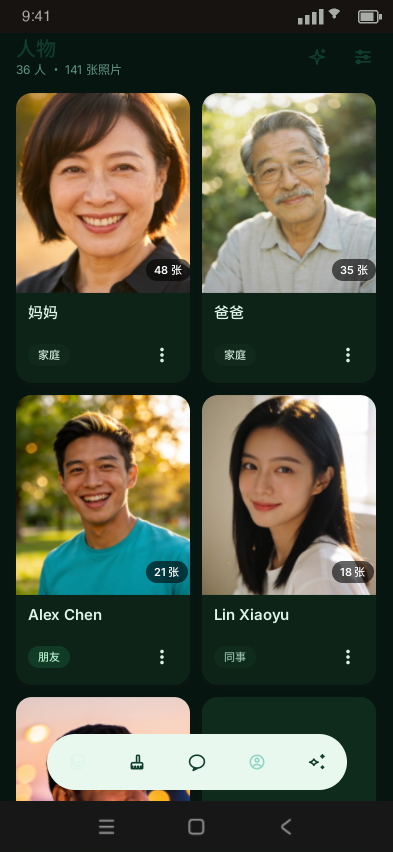
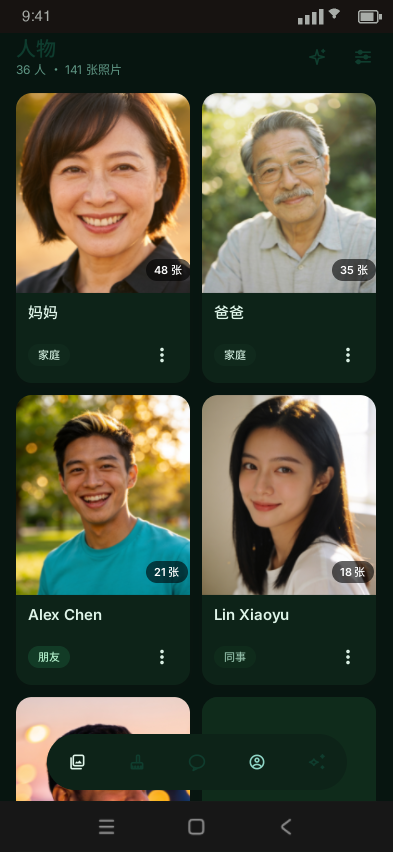
fix(design): 悬浮导航跟随主题——3 处字面量残留回填 token + 审计补悬浮导航带
grid-store01 / grid-store01-zhTW / people/grid-store01 三帧的 floating_tab
实例仍持 Light 实验期浅色字面量（上轮只修了 search/store01 一处），
悬浮导航落在内容带(38-70)与虚拟键带(801-852)之间的采样盲区未被发现。

- 三实例 fills 回填母版 token $2:156，渲染验证三帧悬浮导航=DARK ✓
- 审计工具新增 floating_tab 实例收集 + 专属采样带（300x56@(46,734)）
  + --fix 字面量自动回填路径；实例覆盖 69→82
- 全画布审计通过（2 个照片 hero 页 MID 为已豁免假阳性）；快照入库

Changed region(s): [[0.1221, 0.8545, 0.8855, 0.946]]

diff --git a/scripts/ardot-chrome-audit.py b/scripts/ardot-chrome-audit.py
@@ -113,7 +113,7 @@ def collect_instances(cv):
                     continue
                 for c in fr.get("children") or []:
                     if c.get("type") == "INSTANCE" and c.get("name") in (
-                            "status_bar", "system_nav_bar"):
+                            "status_bar", "system_nav_bar", "floating_tab"):
                         out.append({"page": pid, "frame": fr["id"],
                                     "frameName": fr.get("name"),
                                     "inst": c["id"], "kind": c.get("name")})
@@ -134,6 +134,8 @@ def classify(png_path, kind):
         box = (0, 0, w, int(33 * h / 852))
     elif kind == "system_nav_bar":
         box = (0, int(801 * h / 852), w, h)
+    elif kind == "floating_tab":   # 300x56 @ (46,734)
+        box = (int(0.13 * w), int(0.868 * h), int(0.86 * w), int(0.922 * h))
     else:  # content
         box = (0, int(38 * h / 852), w, int(70 * h / 852))
     v = float(np.asarray(im.crop(box), dtype=float).mean())
@@ -186,6 +188,10 @@ def audit(cv, fix=False):
                 mode_id = "2:0" if expect == "DARK" else "79:1"
                 ops.append(f'U("{fid}", {{variableModes: [{{variableSetId: "2:2", modeId: "{mode_id}"}}]}})')
             for it in frame_insts:
+                if it["kind"] == "floating_tab":
+                    # 悬浮导航错色 = 字面量残留，回填母版 token
+                    ops.append(f'U("{it["inst"]}", {{fills: ["$2:156"]}})')
+                    continue
                 layers = STATUS_LAYERS if it["kind"] == "status_bar" else NAV_LAYERS
                 dark_vis = "true" if expect == "DARK" else "false"
                 ops.append(f'U("{it["inst"]};{layers[0]}", {{visible: {dark_vis}}})')
